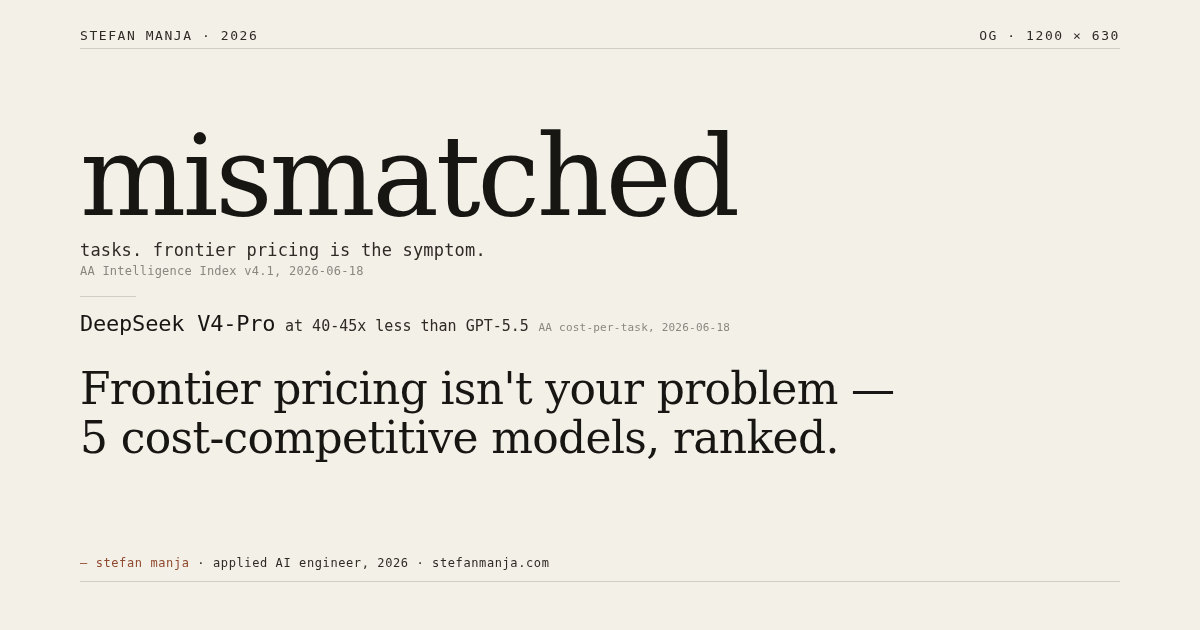
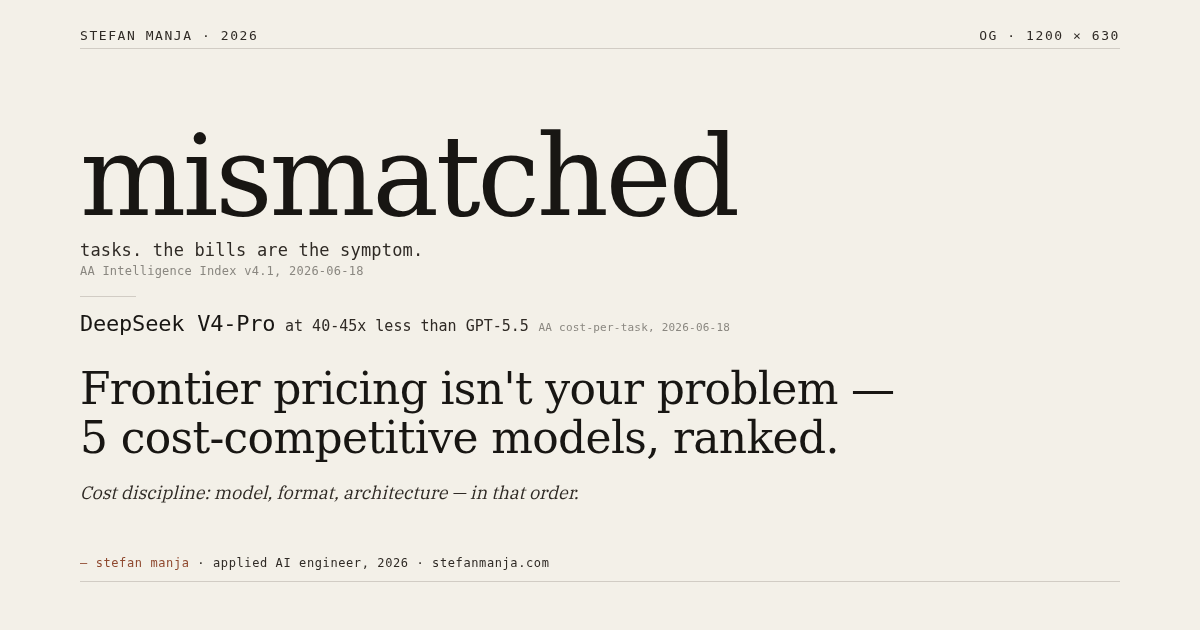
fix(blog): load IBM Plex Serif + cost carousel label swap
hero font reference now resolves to a local webfont, so the
mismatched hero renders the same width in Chrome and Firefox.

cost carousel label shortens to the symptom, and the OG
images re-render with the new webfont stack for consistency.

Changed region(s): [[0.0617, 0.754, 0.37, 0.8143], [0.1233, 0.3921, 0.4008, 0.4222], [0.4008, 0.754, 0.4933, 0.8143]]

diff --git a/src/styles/global.css b/src/styles/global.css
@@ -20,6 +20,15 @@
 }
 
 @font-face {
+  font-family: "IBM Plex Serif";
+  font-style: normal;
+  font-weight: 400;
+  font-display: swap;
+  src: url("/fonts/ibm-plex-serif-latin-400-v20.woff2") format("woff2");
+  unicode-range: U+0000-00FF, U+0131, U+0152-0153, U+02BB-02BC, U+02C6, U+02DA, U+02DC, U+0304, U+0308, U+0329, U+2000-206F, U+20AC, U+2122, U+2191, U+2193, U+2212, U+2215, U+FEFF, U+FFFD;
+}
+
+@font-face {
   font-family: "IBM Plex Mono";
   font-style: normal;
   font-weight: 400;
